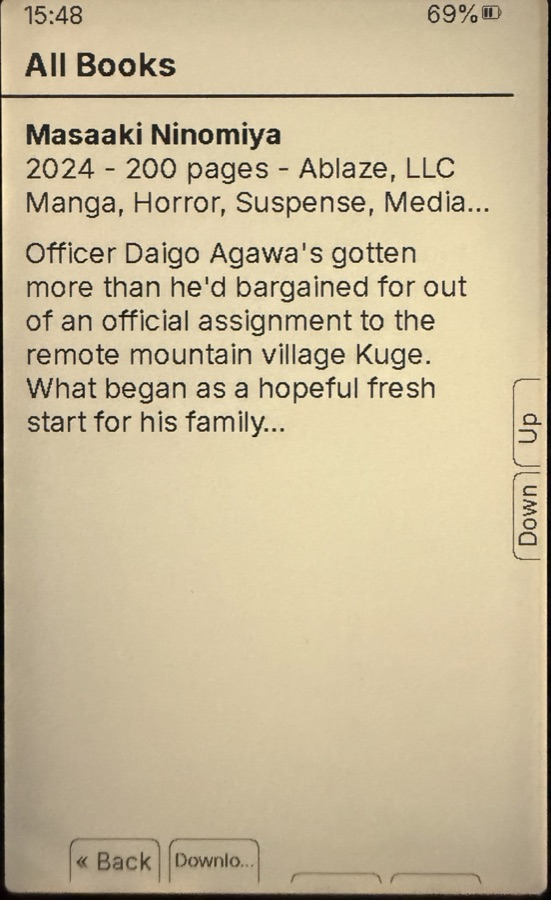
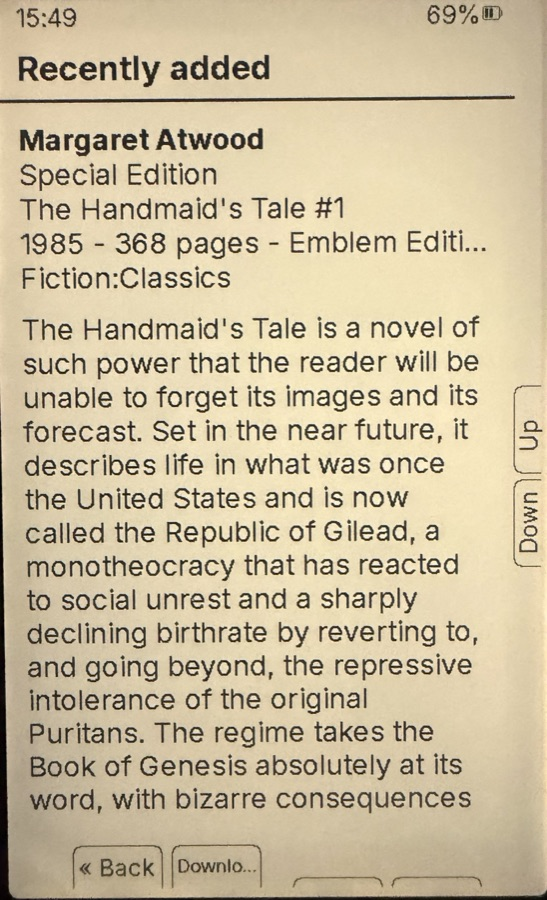
docs: show BookOrbit syncing, not just browsing
Splits the section in two. The catalog half gains the recently-added list and a
better known book for the detail view. The new half is the sync conflict
screen, which is the strongest single image in the set: it names both
positions, both percentages and which device the remote one came from, then
asks rather than guessing.

The settings shot is cropped above Sync Behavior. The rows above it carry a
server address and account name, and this repository is published under a
pseudonym.

Changed region(s): [[0.0, 0.0, 1.0, 1.0], [0.777, 0.0, 0.9324, 0.0311], [0.0311, 0.0, 0.1554, 0.0311]]

diff --git a/README.md b/README.md
@@ -70,16 +70,30 @@ BookOrbit is the point of this fork, so here is what it actually looks like. You
 
 <table>
 <tr>
-<td align="center"><img src="docs/images/bookorbit-catalog.jpg" width="250"><br><sub>Browse the catalog</sub></td>
-<td align="center"><img src="docs/images/bookorbit-authors.jpg" width="250"><br><sub>By author, series, collection</sub></td>
-<td align="center"><img src="docs/images/bookorbit-book.jpg" width="250"><br><sub>Full metadata, then download</sub></td>
-<td align="center"><img src="docs/images/bookorbit-in-progress.jpg" width="250"><br><sub>What you are part way through</sub></td>
+<td align="center"><img src="docs/images/bookorbit-catalog.jpg" width="230"><br><sub>Browse the catalog</sub></td>
+<td align="center"><img src="docs/images/bookorbit-authors.jpg" width="230"><br><sub>By author, series, collection</sub></td>
+<td align="center"><img src="docs/images/bookorbit-recent.jpg" width="230"><br><sub>Recently added, with your place kept</sub></td>
+<td align="center"><img src="docs/images/bookorbit-book.jpg" width="230"><br><sub>Full metadata, then download</sub></td>
 </tr>
 </table>
 
 Continue reading, recently added, libraries, collections, authors, series, everything, what is already on the device, what you are part way through, and a search. Pick a book, read its blurb and page count, and pull it down over Wi-Fi.
 
-**In progress** is the one that shows what the sync is for: it knows you are 52% through, whether you got there on this reader, your phone, or KOReader on something else.
+## Sync that shows its working
+
+Most sync is a spinner and a hope. This one tells you what it found on each side and lets you choose.
+
+<table>
+<tr>
+<td align="center"><img src="docs/images/bookorbit-sync.jpg" width="250"><br><sub>Both positions, and the choice</sub></td>
+<td align="center"><img src="docs/images/bookorbit-in-progress.jpg" width="250"><br><sub>What you are part way through</sub></td>
+<td align="center"><img src="docs/images/bookorbit-settings.jpg" width="250"><br><sub>Or let it decide for you</sub></td>
+</tr>
+</table>
+
+The reader had you on page 62; the server had page 64, left there by a different device. It names the chapter, both page numbers, both percentages and **which device the remote position came from**, then asks. Highlights and bookmarks travel the same way.
+
+If you would rather not be asked, set **On Progress Conflict** to resolve itself, and push automatically when you close a book or every few pages.
 
 ## Your reading history, under the book
 
